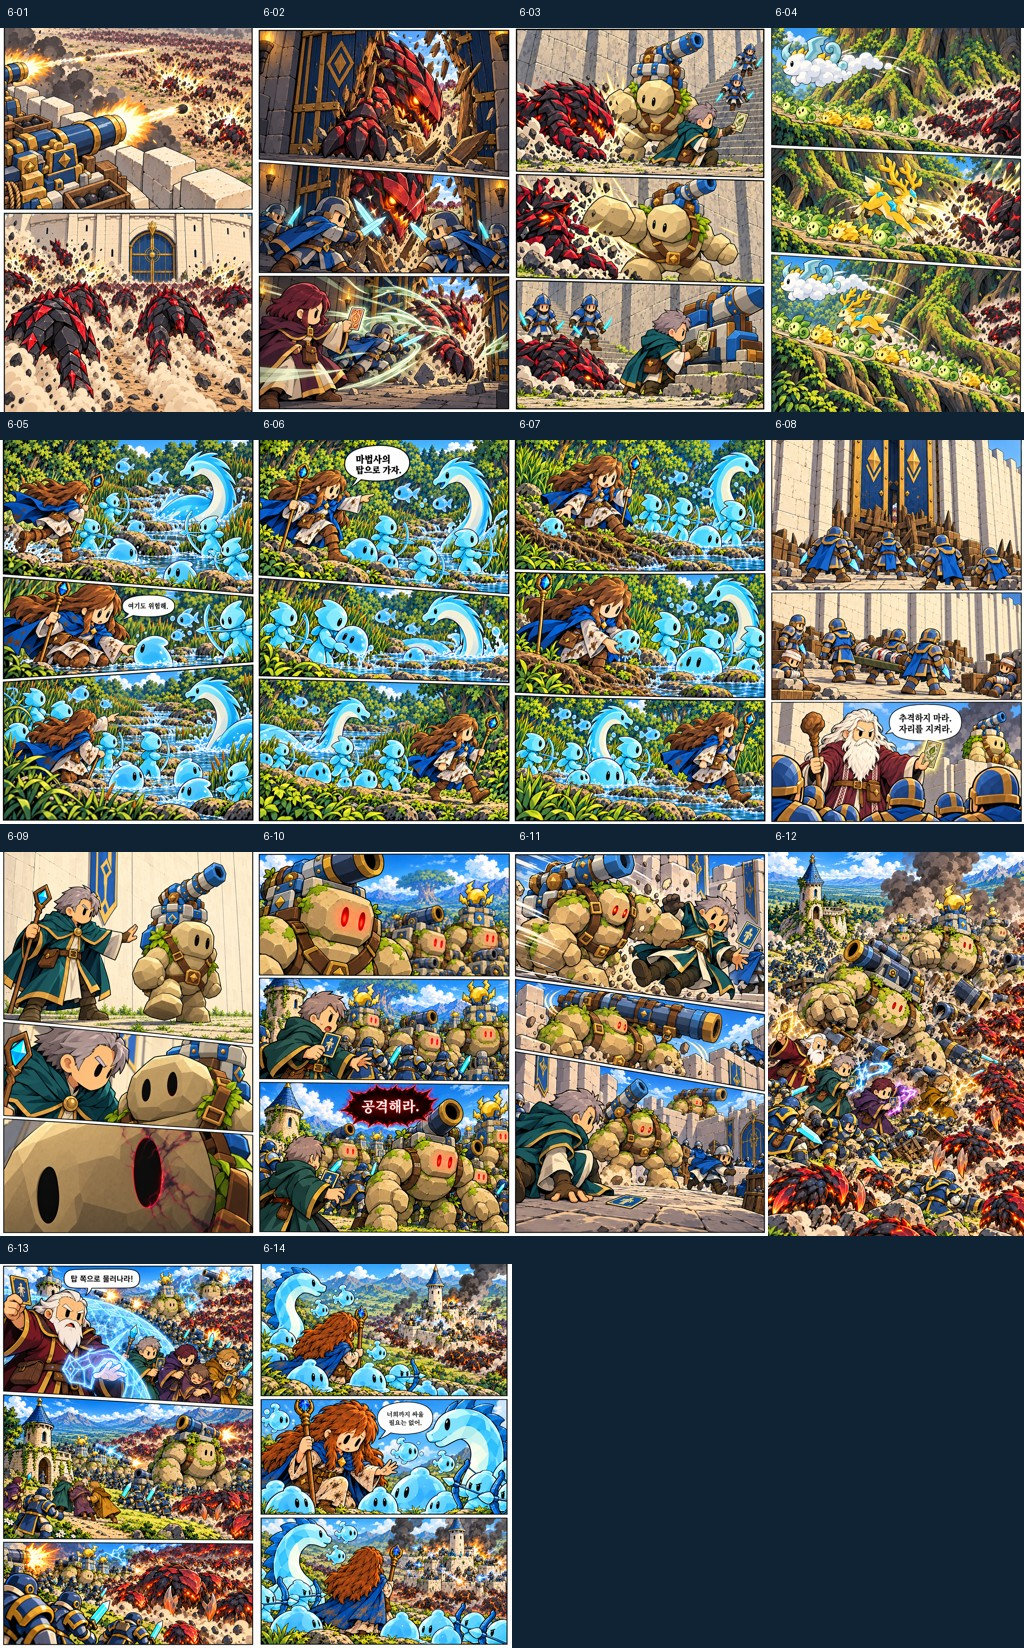
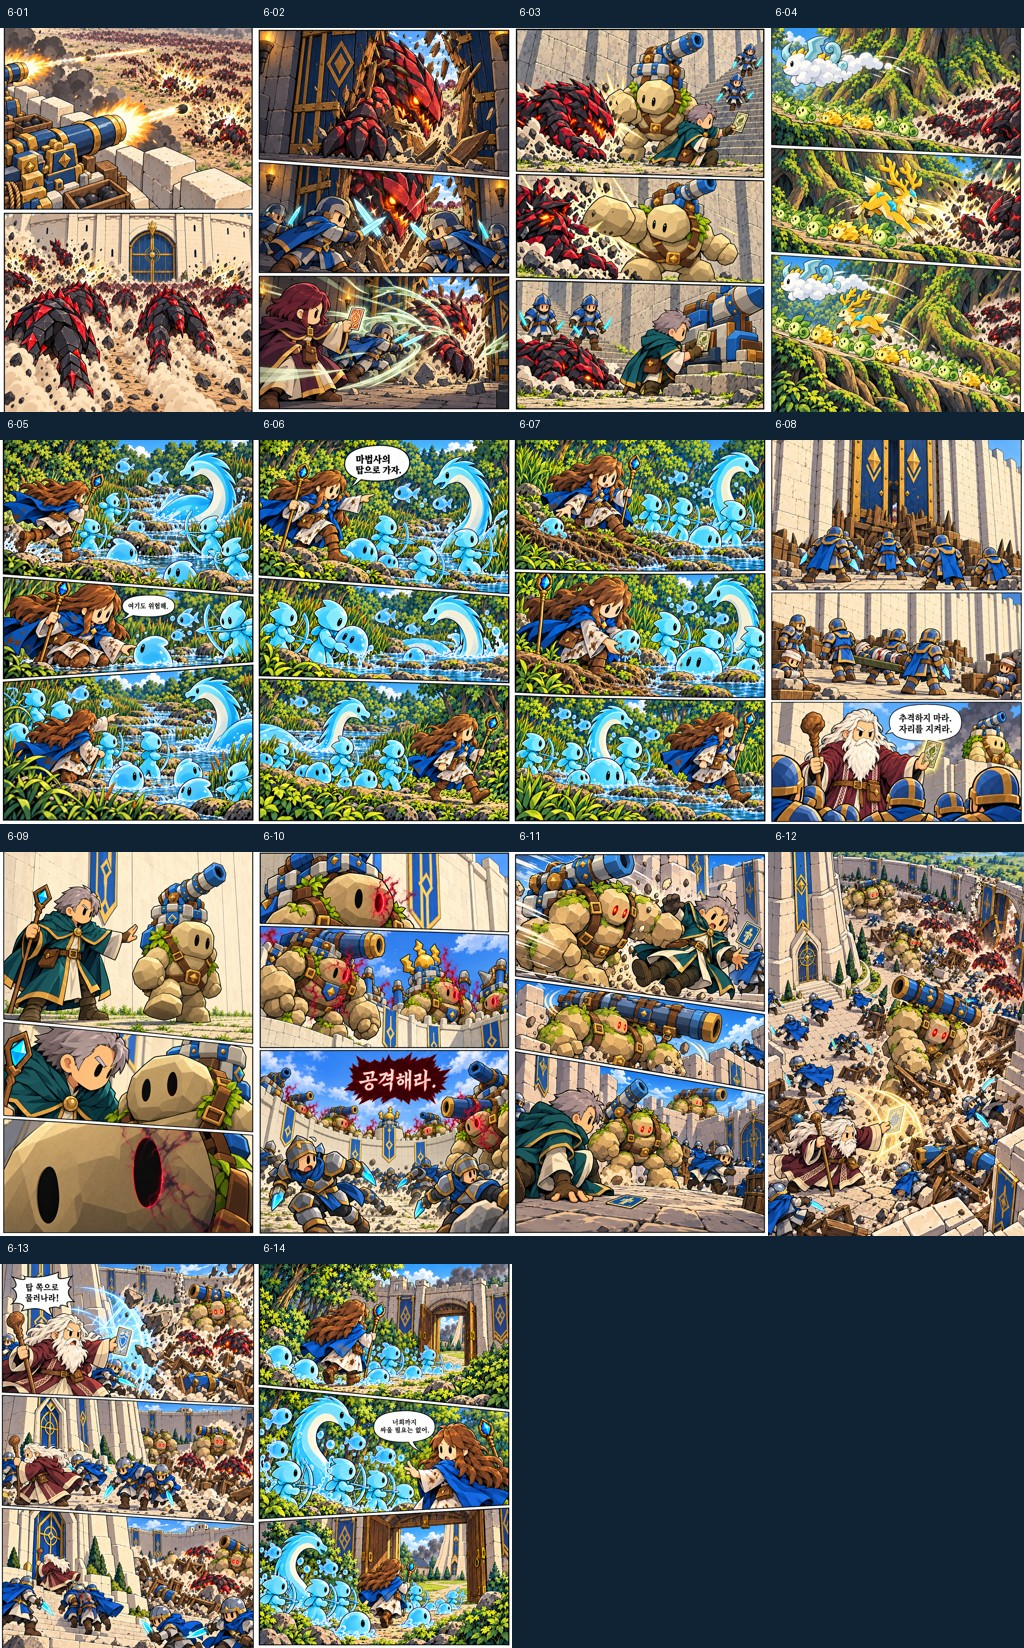
fix(comic): 내부 붕괴와 성문 귀환 원고 교정

Changed region(s): [[0.0, 0.4951, 0.5, 1.0], [0.75, 0.4951, 1.0, 0.7737]]

diff --git a/content/arcane-casters/story/episodes/006/index.html b/content/arcane-casters/story/episodes/006/index.html
@@ -1,1 +1,1 @@
-<!doctype html><html lang="ko"><meta charset="utf-8"><meta name="viewport" content="width=device-width,initial-scale=1"><meta name="robots" content="noindex,noimageindex"><title>6화 검토</title><style>body{margin:0;background:#102335;color:#eef3f8;font-family:system-ui,sans-serif}header,main{max-width:900px;margin:auto}header{padding:24px 16px}figure{margin:0 0 22px}figcaption{padding:10px 16px}img{display:block;width:100%;height:auto}a{color:#9bdcff}</style><header><h1>6화 작화 검토</h1><p>14/14장 · 최종 승인 전 원고</p><a href="../tower-defense-production/index.html">전체 회차</a></header><main><figure><figcaption>1. 포격을 뚫는 군단</figcaption><img src="art-revised-v3/page-01-toward-gate.png" loading="lazy" width="1024" height="1536"></figure><figure><figcaption>2. 비전 보병의 전열</figcaption><img src="art-revised-v3/page-02.png" loading="lazy" width="1024" height="1536"></figure><figure><figcaption>3. 대포를 지키는 포탑등이</figcaption><img src="art-revised-v3/page-03-high-wall.png" loading="lazy" width="1024" height="1536"></figure><figure><figcaption>4. 대피의 마지막 무리</figcaption><img src="art-revised-v3/page-04.png" loading="lazy" width="1024" height="1536"></figure><figure><figcaption>5. 물 슬라임 마을 도착</figcaption><img src="art-revised-v3/page-05-water-ink.png" loading="lazy" width="1024" height="1536"></figure><figure><figcaption>6. 대피를 알리는 미라</figcaption><img src="art-revised-v3/page-06-text-water-hand.png" loading="lazy" width="1024" height="1536"></figure><figure><figcaption>7. 뒤처진 슬라임</figcaption><img src="art-revised-v3/page-07.png" loading="lazy" width="1024" height="1536"></figure><figure><figcaption>8. 첫 공세를 막아내다</figcaption><img src="art-revised-v3/page-08-inner-court.png" loading="lazy" width="1024" height="1536"></figure><figure><figcaption>9. 멈춰 선 포탑등이</figcaption><img src="art-revised-v3/page-09-no-terraces.png" loading="lazy" width="1024" height="1536"></figure><figure><figcaption>10. 붉어지는 눈</figcaption><img src="art-v1/page-10.png" loading="lazy" width="1024" height="1536"></figure><figure><figcaption>11. 진지 안의 공격</figcaption><img src="art-revised-v3/page-11.png" loading="lazy" width="1024" height="1536"></figure><figure><figcaption>12. 방어선 붕괴</figcaption><img src="art-v1/page-12.png" loading="lazy" width="1024" height="1536"></figure><figure><figcaption>13. 탑으로 후퇴</figcaption><img src="art-v1/page-13.png" loading="lazy" width="1024" height="1536"></figure><figure><figcaption>14. 함께 돌아가는 물 슬라임</figcaption><img src="art-v1/page-14.png" loading="lazy" width="1024" height="1536"></figure></main></html>
+<!doctype html><html lang="ko"><meta charset="utf-8"><meta name="viewport" content="width=device-width,initial-scale=1"><meta name="robots" content="noindex,noimageindex"><title>6화 검토</title><style>body{margin:0;background:#102335;color:#eef3f8;font-family:system-ui,sans-serif}header,main{max-width:900px;margin:auto}header{padding:24px 16px}figure{margin:0 0 22px}figcaption{padding:10px 16px}img{display:block;width:100%;height:auto}a{color:#9bdcff}</style><header><h1>6화 작화 검토</h1><p>14/14장 · 최종 승인 전 원고</p><a href="../tower-defense-production/index.html">전체 회차</a></header><main><figure><figcaption>1. 포격을 뚫는 군단</figcaption><img src="art-revised-v3/page-01-toward-gate.png" loading="lazy" width="1024" height="1536"></figure><figure><figcaption>2. 비전 보병의 전열</figcaption><img src="art-revised-v3/page-02.png" loading="lazy" width="1024" height="1536"></figure><figure><figcaption>3. 대포를 지키는 포탑등이</figcaption><img src="art-revised-v3/page-03-high-wall.png" loading="lazy" width="1024" height="1536"></figure><figure><figcaption>4. 대피의 마지막 무리</figcaption><img src="art-revised-v3/page-04.png" loading="lazy" width="1024" height="1536"></figure><figure><figcaption>5. 물 슬라임 마을 도착</figcaption><img src="art-revised-v3/page-05-water-ink.png" loading="lazy" width="1024" height="1536"></figure><figure><figcaption>6. 대피를 알리는 미라</figcaption><img src="art-revised-v3/page-06-text-water-hand.png" loading="lazy" width="1024" height="1536"></figure><figure><figcaption>7. 뒤처진 슬라임</figcaption><img src="art-revised-v3/page-07.png" loading="lazy" width="1024" height="1536"></figure><figure><figcaption>8. 첫 공세를 막아내다</figcaption><img src="art-revised-v3/page-08-inner-court.png" loading="lazy" width="1024" height="1536"></figure><figure><figcaption>9. 멈춰 선 포탑등이</figcaption><img src="art-revised-v3/page-09-no-terraces.png" loading="lazy" width="1024" height="1536"></figure><figure><figcaption>10. 붉어지는 눈</figcaption><img src="art-revised-v3/page-10-curved-wall.png" loading="lazy" width="1024" height="1536"></figure><figure><figcaption>11. 진지 안의 공격</figcaption><img src="art-revised-v3/page-11.png" loading="lazy" width="1024" height="1536"></figure><figure><figcaption>12. 방어선 붕괴</figcaption><img src="art-revised-v3/page-12.png" loading="lazy" width="1024" height="1536"></figure><figure><figcaption>13. 탑으로 후퇴</figcaption><img src="art-revised-v3/page-13.png" loading="lazy" width="1024" height="1536"></figure><figure><figcaption>14. 함께 돌아가는 물 슬라임</figcaption><img src="art-revised-v3/page-14-court-view.png" loading="lazy" width="1024" height="1536"></figure></main></html>

diff --git a/content/arcane-casters/story/episodes/005/index.html b/content/arcane-casters/story/episodes/005/index.html
@@ -1,1 +1,1 @@
-<!doctype html><html lang="ko"><meta charset="utf-8"><meta name="viewport" content="width=device-width,initial-scale=1"><meta name="robots" content="noindex,noimageindex"><title>5화 검토</title><style>body{margin:0;background:#102335;color:#eef3f8;font-family:system-ui,sans-serif}header,main{max-width:900px;margin:auto}header{padding:24px 16px}figure{margin:0 0 22px}figcaption{padding:10px 16px}img{display:block;width:100%;height:auto}a{color:#9bdcff}</style><header><h1>5화 작화 검토</h1><p>12/12장 · 최종 승인 전 원고</p><a href="../tower-defense-production/index.html">전체 회차</a></header><main><figure><figcaption>1. 쉬지 않고 떠나는 미라</figcaption><img src="art-v2/page-01.png" loading="lazy" width="1024" height="1536"></figure><figure><figcaption>2. 보고 직후 출발</figcaption><img src="art-revised-v1/page-02.png" loading="lazy" width="1024" height="1536"></figure><figure><figcaption>3. 탑의 마법사들</figcaption><img src="art-revised-v2/page-03.png" loading="lazy" width="1024" height="1536"></figure><figure><figcaption>4. 오린의 소환</figcaption><img src="art-revised-v3/page-04.png" loading="lazy" width="1024" height="1536"></figure><figure><figcaption>5. 세계수로 향하는 소환수</figcaption><img src="art-revised-v3/page-05-arrival.png" loading="lazy" width="1024" height="1536"></figure><figure><figcaption>6. 방어 진지 구축</figcaption><img src="art-revised-v3/page-06-action.png" loading="lazy" width="1024" height="1536"></figure><figure><figcaption>7. 길을 내주는 포탑등이</figcaption><img src="art-revised-v3/page-07-single-wall.png" loading="lazy" width="1024" height="1536"></figure><figure><figcaption>8. 물 슬라임 마을로</figcaption><img src="art-revised-v3/page-08.png" loading="lazy" width="1024" height="1536"></figure><figure><figcaption>9. 세계수 아래의 대피</figcaption><img src="art-revised-v3/page-09.png" loading="lazy" width="1024" height="1536"></figure><figure><figcaption>10. 막으며 물러나다</figcaption><img src="art-revised-v2/page-10.png" loading="lazy" width="1024" height="1536"></figure><figure><figcaption>11. 도열한 방어군</figcaption><img src="art-revised-v3/page-11-unit-identity.png" loading="lazy" width="1024" height="1536"></figure><figure><figcaption>12. 첫 포격</figcaption><img src="art-revised-v2/page-12.png" loading="lazy" width="1024" height="1536"></figure></main></html>
+<!doctype html><html lang="ko"><meta charset="utf-8"><meta name="viewport" content="width=device-width,initial-scale=1"><meta name="robots" content="noindex,noimageindex"><title>5화 검토</title><style>body{margin:0;background:#102335;color:#eef3f8;font-family:system-ui,sans-serif}header,main{max-width:900px;margin:auto}header{padding:24px 16px}figure{margin:0 0 22px}figcaption{padding:10px 16px}img{display:block;width:100%;height:auto}a{color:#9bdcff}</style><header><h1>5화 작화 검토</h1><p>12/12장 · 최종 승인 전 원고</p><a href="../tower-defense-production/index.html">전체 회차</a></header><main><figure><figcaption>1. 쉬지 않고 떠나는 미라</figcaption><img src="art-v2/page-01.png" loading="lazy" width="1024" height="1536"></figure><figure><figcaption>2. 보고 직후 출발</figcaption><img src="art-revised-v3/page-02-farewell-focus.png" loading="lazy" width="1024" height="1536"></figure><figure><figcaption>3. 탑의 마법사들</figcaption><img src="art-revised-v2/page-03.png" loading="lazy" width="1024" height="1536"></figure><figure><figcaption>4. 오린의 소환</figcaption><img src="art-revised-v3/page-04.png" loading="lazy" width="1024" height="1536"></figure><figure><figcaption>5. 세계수로 향하는 소환수</figcaption><img src="art-revised-v3/page-05-arrival.png" loading="lazy" width="1024" height="1536"></figure><figure><figcaption>6. 방어 진지 구축</figcaption><img src="art-revised-v3/page-06-teal-units.png" loading="lazy" width="1024" height="1536"></figure><figure><figcaption>7. 길을 내주는 포탑등이</figcaption><img src="art-revised-v3/page-07-single-wall.png" loading="lazy" width="1024" height="1536"></figure><figure><figcaption>8. 물 슬라임 마을로</figcaption><img src="art-revised-v3/page-08.png" loading="lazy" width="1024" height="1536"></figure><figure><figcaption>9. 세계수 아래의 대피</figcaption><img src="art-revised-v3/page-09.png" loading="lazy" width="1024" height="1536"></figure><figure><figcaption>10. 막으며 물러나다</figcaption><img src="art-revised-v2/page-10.png" loading="lazy" width="1024" height="1536"></figure><figure><figcaption>11. 도열한 방어군</figcaption><img src="art-revised-v3/page-11-unit-identity.png" loading="lazy" width="1024" height="1536"></figure><figure><figcaption>12. 첫 포격</figcaption><img src="art-revised-v2/page-12.png" loading="lazy" width="1024" height="1536"></figure></main></html>

diff --git a/content/arcane-casters/story/episodes/tower-defense-production/PRODUCTION-HOLD.md b/content/arcane-casters/story/episodes/tower-defense-production/PRODUCTION-HOLD.md
@@ -1,18 +1,22 @@
 # 탑 방어전 교정 및 제작 상태
 
-## 후속 원고 작업 #117
+## 2026-11-01 후속 원고 검토 상태 #117 · PR #118
 
-2026-11-01 현재 새 원고 14장을 포함해 선택 원고는 40/40장이다. 5화와 6화 전반의
-교정본을 검토했으며, 5화 2쪽과 6화 10·12·13·14쪽의 후속 교정을 진행 중이다.
-페이지 수 충족과 공간 교정 완료, 사용자 최종 승인을 구분한다. 후속 PR은 #118이다.
+5화 12쪽, 6화 14쪽, 7화 14쪽으로 선택 원고 40/40쪽을 채웠다.
+미제작 14쪽을 추가하고 기존 25쪽의 공간·동작·인물 및 장비 외형을 교정했다.
+5화 1쪽의 사무실 보고 원고는 유지했다. 선택 원고 40쪽 모두 자체 검토한 초안이며,
+사용자 최종 승인이나 사이트 공개를 뜻하지 않는다. 요청된 작화와 교정에서 남은 페이지는 없다.
 
-사용자 요청에 따라 남은 14페이지와 기존 원화의 공간 교정을 진행한다.
-5화 8페이지는 달리기·도약·착지 후 달리기로, 6페이지는 승인된 원형 성 내부와
-바깥쪽을 향한 포대·카드 설치 동작으로 수정했다. 실제 선택본은 selected-pages.json 기준이다.
-art-revised-v2/는 동작·그림체·공간에 대한 추가 지적 이전의 미승인 시안이며 자동 선택하지 않는다.
-작화 기준은 기존 comic-character-style.png와 comic-style.png의 선·얼굴·색면이다.
-문이 네 개로 그려진 fortress-defense-plan.png는 구조·축척 참고에서 제외한다.
-새 제작 원고와 교정본은 각 회차 art-revised-v3/에 보관한다.
+실제 선택본·정확한 프롬프트·참고 이미지 기록은 각 회차 selected-pages.json 기준이다.
+새 교정본은 art-revised-v3/에 보관한다. art-revised-v2/는 자동 선택하지 않으며,
+개별 검토한 5화 3·10·12쪽만 해당 버전에서 유지했다. 기존 시안과 교정 입력 파일은 보존한다.
+
+성은 한 겹의 원형 외벽과 중앙 탑, 동문과 서문으로 통일했다. 내부 전경의 카메라는
+남동 성벽에서 북·북서쪽을 보는 구도로 정리해 탑 기단 왼쪽·동문 오른쪽 배치와
+동향 탑 출입구의 보이는 면을 맞췄다. 문이 네 개이던 fortress-defense-plan.png는
+현재 구조·축척 참고에서 제외했다. 실제 만화의 선·얼굴·색면을 작화 기준으로 사용했다.
+
+아래는 이전 작업 시점의 기록이며 현재 제작 상태나 재개 요청보다 우선하지 않는다.
 
 ## 2026-10-30 작업 재개
 

diff --git a/content/arcane-casters/story/episodes/006/PLAN.md b/content/arcane-casters/story/episodes/006/PLAN.md
@@ -72,13 +72,13 @@ Three panels INSIDE: RED-eyed Towerback shoves TEAL mage aside and blocks INNER 
 
 ## 12. 방어선 붕괴
 
-ONE FULL-PAGE splash of INTERNAL COLLAPSE. High view inside EAST half court: red-eyed golems attack inward from bastions and reserves, soldiers/mages split between gate gap and possessed allies; enemy quadrupeds now push damaged EAST gate. WEST rear refuge lane still on opposite side, not random new doors. Two nearest residence edges and central tower BASE may be seen because camera above east wall looking WEST; top/crown outside crop rather than tiny next to people. No text/Mira/Finn.
+ONE FULL-PAGE internal collapse splash, from the SOUTHEAST inner wall walk looking NORTH/NORTHWEST across the eastern open courtyard. The massive central tower BASE is LEFT, upper65m tower cropped far above frame; its east-facing doorway is visible from this eastern camera, and the breached EAST outer gate is RIGHT. RED-eyed stone golems attack inward, smash static gun positions and scatter two-cyan-blade infantry toward the tower doorway, while low quadrupeds push in through the gate. Orin protects nearby retreaters with a physical card and wooden staff. Keep ONE round ivory outerwall and open court, no maze, inner crosswalls, extra exits or miniature blue-cone keep. World Tree EAST is outside this northern view. No Mira, water tribe, Finn, meteors, red sky, total tower destruction or printed text.
 
 인쇄 대사: 없음
 
 ## 13. 탑으로 후퇴
 
-Three panels retreat INSIDE courtyard from EAST gate toward CENTRAL TOWER's EAST-facing doorway. Orin holds real card and shields wounded colleagues: '탑 쪽으로 물러나라!' Infantry cover retreat, red stone artillery behind threatens from east. Visible local angular ivory tower base doorway and court, upper65m tower extends off TOP; not whole miniature tower. No Mira/Finn or troopers outside wall.
+Three sequential action panels retreating through the INNER EAST courtyard to the same central tower east-facing doorway. Orin holds a physical BLUE SHIELD card and wooden knob staff, intercepts falling masonry with a compact cyan barrier, and shouts 탑 쪽으로 물러나라! Infantry then support wounded defenders up the tower steps while others cover the retreat. RED-eyed golems and quadrupeds push through wrecked gun positions behind them to the EAST. Same enormous ivory tower base cropped above frame, same single round outerwall in the distance; no miniature tower, new gates or maze. No Mira, Finn or water tribe yet.
 
 인쇄 대사: 탑 쪽으로 물러나라!
 
